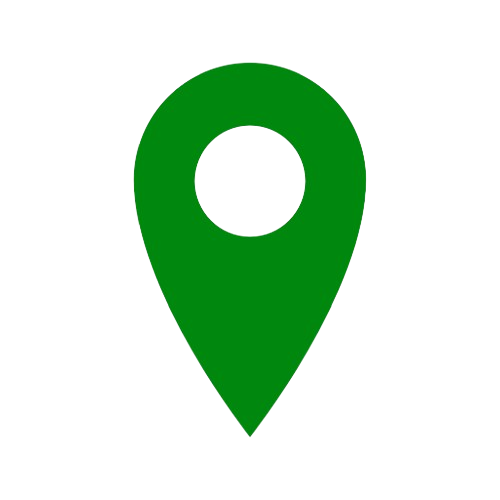
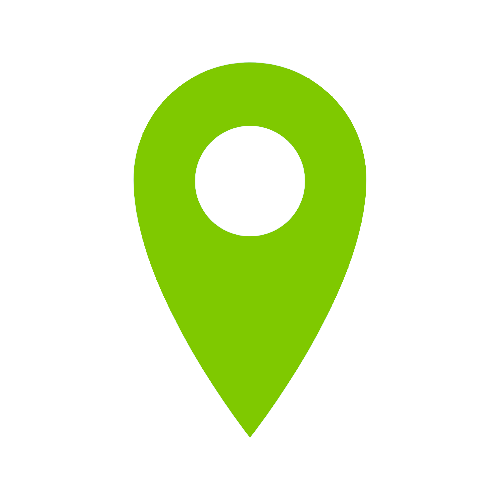
ajout d'un filtre par polluant pour la carte

Changed region(s): [[0.27, 0.12, 0.75, 0.87]]

diff --git a/script/carte.js b/script/carte.js
@@ -1,55 +1,49 @@
 /**
  * carte.js
  *
- * - Au chargement, on affiche une carte de France avec des marqueurs (markersLayer).
- * - Si l'utilisateur sélectionne un polluant dans le <select>, on supprime les marqueurs
- *   et on affiche une heat map (heatLayer) en se basant sur les mêmes données.
- * - Si l'utilisateur désélectionne (met la valeur vide ""), on retire la heat map et on remet les marqueurs.
+ * Au chargement, on affiche une carte de France avec des marqueurs (markersLayer).
+ * Si l'utilisateur sélectionne un polluant dans le <select>, on supprime les marqueurs
+ * et on affiche une heat map via heatmap.js.
+ * Si l'utilisateur désélectionne (valeur vide ""), on retire la heat map et on remet les marqueurs.
  */
 
 function initMap(villes) {
     // 1) Création et centrage de la carte
-    var map = L.map('map').setView([46.603354, 1.888334], 6);
+    window.map = L.map('map').setView([46.603354, 1.888334], 6);
+
     L.tileLayer('https://{s}.tile.openstreetmap.org/{z}/{x}/{y}.png', {
         maxZoom: 18,
         attribution: '© OpenStreetMap'
     }).addTo(map);
 
     // 2) Définition d'une icône pour les marqueurs
-    var greenIcon = L.icon({
-        iconUrl: '../images/green-icon.png',
+    const IconDarkGreen = L.icon({
+        iconUrl: '../images/dark-green-icon.png',
         iconSize: [20, 20]
     });
 
-    // 3) Création de deux "layers" :
-    //    - markersLayer : contiendra tous les marqueurs
-    //    - heatLayer    : contiendra la heat map
-    var markersLayer = L.layerGroup().addTo(map);
-    var heatLayer = null; // on l'initialisera plus tard
+    // 3) Création d'un layerGroup pour les marqueurs
+    const markersLayer = L.layerGroup().addTo(map);
 
     /**
-     * Affiche les marqueurs pour chaque ville, en se basant sur "villes".
-     * On nettoie d'abord markersLayer (au cas où on l'ait déjà rempli).
+     * Affiche les marqueurs pour chaque ville.
      */
     function drawMarkers() {
         markersLayer.clearLayers();
-        villes.forEach(function(ville) {
-            // S'assurer que la ville a bien des coordonnées
+        villes.forEach((ville) => {
             if (ville.lat && ville.lon) {
-                var marker = L.marker([ville.lat, ville.lon], { icon: greenIcon });
+                const marker = L.marker([ville.lat, ville.lon], { icon: IconDarkGreen });
 
                 // Construire la liste des polluants
-                var pollutantList = '';
-                for (var pollutant in ville.pollutants) {
-                    let values = ville.pollutants[pollutant].map(function(d) {
-                        return parseFloat(d.value) || 0;
-                    });
-                    let avg = calculateAverage(values);
+                let pollutantList = '';
+                for (let pollutant in ville.pollutants) {
+                    const values = ville.pollutants[pollutant].map(d => parseFloat(d.value) || 0);
+                    const avg = calculateAverage(values);
                     pollutantList += displayPollutantVariation(pollutant, avg);
                 }
 
                 // Contenu du popup
-                var popupContent = `
+                const popupContent = `
                     <div class="popup-content">
                         <strong>Ville :</strong> ${ville.nom}<br>
                         ${ville.location !== 'Inconnu' ? `<strong>Localisation :</strong> ${ville.location}<br>` : ''}
@@ -69,7 +63,7 @@ function initMap(villes) {
      */
     function calculateAverage(values) {
         if (!values.length) return 0;
-        let sum = values.reduce((acc, val) => acc + val, 0);
+        const sum = values.reduce((acc, val) => acc + val, 0);
         return sum / values.length;
     }
 
@@ -80,83 +74,56 @@ function initMap(villes) {
         return `<li><strong>${pollutant} :</strong> ${value.toFixed(2)} µg/m³</li>`;
     }
 
-    /**
-     * Construit et affiche la heat map pour un polluant donné (sans normalisation).
-     * - On supprime d'abord la heat map précédente (si elle existe).
-     * - On parcourt les données "villes" pour calculer la moyenne du polluant et construire heatData.
-     * - On crée la heat map avec L.heatLayer(heatData, ...).
-     */
-    function drawHeatMap(pollutant) {
-        // On supprime l'ancienne heat map si elle existe
-        if (heatLayer) {
-            map.removeLayer(heatLayer);
-            heatLayer = null;
-        }
+    function drawFilteredMarkers(pollutant) {
+        // On vide le layer des marqueurs existants
+        markersLayer.clearLayers();
 
-        // Si aucun polluant sélectionné, on ne fait rien
-        if (!pollutant) return;
-
-        var heatData = [];
-        var maxValue = 0;
-
-        // Parcours des villes pour construire le tableau heatData
-        villes.forEach(function(ville) {
+        villes.forEach((ville) => {
             if (ville.lat && ville.lon && ville.pollutants[pollutant]) {
-                let arr = ville.pollutants[pollutant].map(d => parseFloat(d.value) || 0);
-                let avg = calculateAverage(arr);
+                const values = ville.pollutants[pollutant].map(d => parseFloat(d.value) || 0);
+                const avg = calculateAverage(values);
+                let icon;
 
-                if (avg > maxValue) {
-                    maxValue = avg;
+                // Choix de l'icône en fonction du niveau moyen
+                if (avg < 25) {
+                    icon = L.icon({ iconUrl: '../images/green-icon.png', iconSize: [20, 20] });
+                } else if (avg < 50) {
+                    icon = L.icon({ iconUrl: '../images/orange-icon.png', iconSize: [20, 20] });
+                } else {
+                    icon = L.icon({ iconUrl: '../images/red-icon.png', iconSize: [20, 20] });
                 }
 
-                heatData.push([parseFloat(ville.lat), parseFloat(ville.lon), avg]);
+                const marker = L.marker([ville.lat, ville.lon], { icon: icon });
+
+                // Contenu du popup
+                const popupContent = `
+                <div class="popup-content">
+                    <strong>Ville :</strong> ${ville.nom}<br>
+                    ${ville.location !== 'Inconnu' ? `<strong>Localisation :</strong> ${ville.location}<br>` : ''}
+                    <ul>
+                        <li><strong>${pollutant} :</strong> ${avg.toFixed(2)} µg/m³</li>
+                    </ul>
+                    <a href="../fonctionnalites/details.php?ville=${encodeURIComponent(ville.nom)}" id="see-more">Voir plus</a>
+                </div>
+            `;
+                marker.bindPopup(popupContent);
+                markersLayer.addLayer(marker);
             }
         });
-
-        // Debug : vérifier le nombre de points et la valeur max
-        console.log("Polluant sélectionné :", pollutant);
-        console.log("Nombre de points dans heatData :", heatData.length);
-        console.log("maxValue :", maxValue);
-
-        // Normaliser les intensités pour qu'elles soient comprises entre 0 et 1
-        if (maxValue > 0) {
-            heatData = heatData.map(function(point) {
-                return [point[0], point[1], point[2] / maxValue];
-            });
-        }
-
-        // Ajuster les paramètres pour améliorer la visibilité
-        heatLayer = L.heatLayer(heatData, {
-            // Valeurs raisonnables pour tester
-            radius: 40,
-            blur: 20,
-            gradient: {0.0: 'blue', 0.5: 'lime', 1.0: 'red'}
-        }).addTo(map);
-
-        // Facultatif : recadrer la carte pour voir tous les points
-        // (si beaucoup de points sont hors métropole, vous verrez la carte dézoomée)
-        if (heatData.length > 0) {
-            var latLngs = heatData.map(pt => [pt[0], pt[1]]);
-            var bounds = L.latLngBounds(latLngs);
-            map.fitBounds(bounds);
-        }
     }
 
-    // Le <select> "pollutant-filter"
-    var pollutantSelect = document.getElementById('pollutant-filter');
+    // Gestion du select "pollutant-filter"
+    const pollutantSelect = document.getElementById('pollutant-filter');
     if (pollutantSelect) {
         pollutantSelect.addEventListener('change', function() {
-            var selectedPollutant = this.value;
+            const selectedPollutant = this.value;
             if (selectedPollutant) {
-                // On enlève les marqueurs pour afficher la heat map
+                // On vide les marqueurs existants et on affiche le filtre par niveau
                 markersLayer.clearLayers();
-                drawHeatMap(selectedPollutant);
+                drawFilteredMarkers(selectedPollutant);
             } else {
-                // Si polluant = vide, on retire la heat map et on remet les marqueurs
-                if (heatLayer) {
-                    map.removeLayer(heatLayer);
-                    heatLayer = null;
-                }
+                // Si aucun polluant n'est sélectionné, on réaffiche tous les marqueurs
+                markersLayer.clearLayers();
                 drawMarkers();
             }
             console.log("Changement polluant ->", selectedPollutant);
@@ -169,10 +136,10 @@ function initMap(villes) {
 
 document.addEventListener('DOMContentLoaded', function() {
     // Récupère les données des villes injectées dans la page (en JSON)
-    var villesData = document.getElementById('villes-data');
+    const villesData = document.getElementById('villes-data');
     if (villesData) {
         try {
-            var villes = JSON.parse(villesData.textContent);
+            const villes = JSON.parse(villesData.textContent);
             initMap(villes);
         } catch (e) {
             console.error('Erreur lors de l\'analyse des données des villes :', e);

diff --git a/fonctionnalites/carte.php b/fonctionnalites/carte.php
@@ -28,11 +28,10 @@ session_start();
     <!-- Styles pour les Boutons -->
     <link rel="stylesheet" href="../styles/boutons.css">
     <link href="https://fonts.googleapis.com/css2?family=League+Spartan:wght@400;700&display=swap" rel="stylesheet">
-    <!-- Styles Leaflet -->
-    <link rel="stylesheet" href="https://unpkg.com/leaflet/dist/leaflet.css" />
+
+    <!-- Leaflet JS -->
     <script src="https://unpkg.com/leaflet/dist/leaflet.js"></script>
-    <!-- Inclusion de Leaflet.heat -->
-    <script src="https://unpkg.com/leaflet.heat/dist/leaflet-heat.js"></script>
+
     <!-- Inclusion du script externe carte.js avec l'attribut defer pour s'assurer qu'il est exécuté après le parsing du HTML -->
     <script src="../script/carte.js" defer></script>
 </head>
@@ -109,9 +108,11 @@ $conn->close();
         <select id="pollutant-filter">
             <option value="">-- Sélectionner un polluant --</option>
             <option value="PM2.5">PM2.5</option>
+            <option value="PM10">PM10</option>
+            <option value="NO">NO</option>
             <option value="NO2">NO2</option>
             <option value="O3">O3</option>
-            <!-- Vous pouvez ajouter d'autres options selon vos données -->
+            <option value="CO">CO</option>
         </select>
     </div>
 
